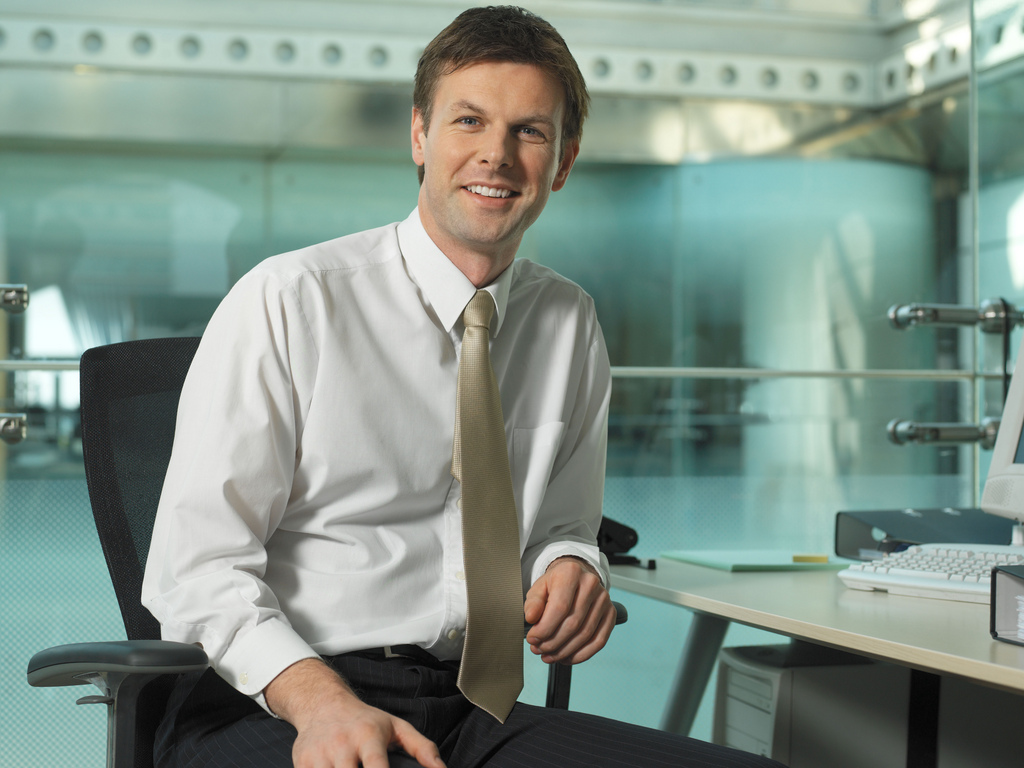
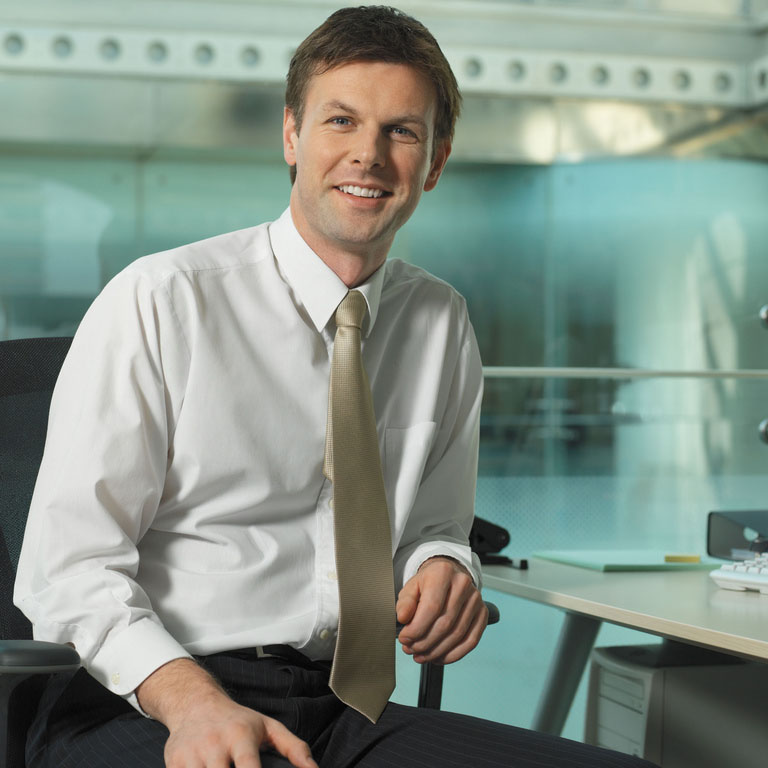
f
f

diff --git a/about.html b/about.html
@@ -362,10 +362,20 @@
         <!--5th section - TEAM-->
         <div class="about-section" style="background:#eaeaea;">
             <h2 class="about-h2" style="color:#2e748e">đội ngũ chủ chốt</h2>
-            <div class="row" style="margin:auto;max-width:80em;">
-                <div class="col-md-6">
-                    <div style="border:2px solid #000;padding:15px;border-radius:10px;text-align:center;">
-                        <img src="images/about/team_mem1.jpg" style="width:100%;border:2px solid #000;border-radius:10px;">
+            <div class="row about-step" style="margin:2em auto 4em auto;max-width:80em;">
+                <div class="col-sm-4" style="margin-top:2em;">
+                    <div style="width:15em;height:15em;overflow:hidden;margin:auto;border:8px solid #000;border-radius:50%">
+                        <img src="images/about/team_mem1.jpg" style="width:100%;">
+                    </div>
+                </div>
+                <div class="col-sm-4" style="margin-top:2em;">
+                    <div style="width:15em;height:15em;overflow:hidden;margin:auto;border:8px solid #000;border-radius:50%">
+                        <img src="images/about/team_mem2.jpg" style="width:100%;">
+                    </div>
+                </div>
+                <div class="col-sm-4" style="margin-top:2em;">
+                    <div style="width:15em;height:15em;overflow:hidden;margin:auto;border:8px solid #000;border-radius:50%">
+                        <img src="images/about/team_mem3.jpg" style="width:100%;">
                     </div>
                 </div>
             </div>
